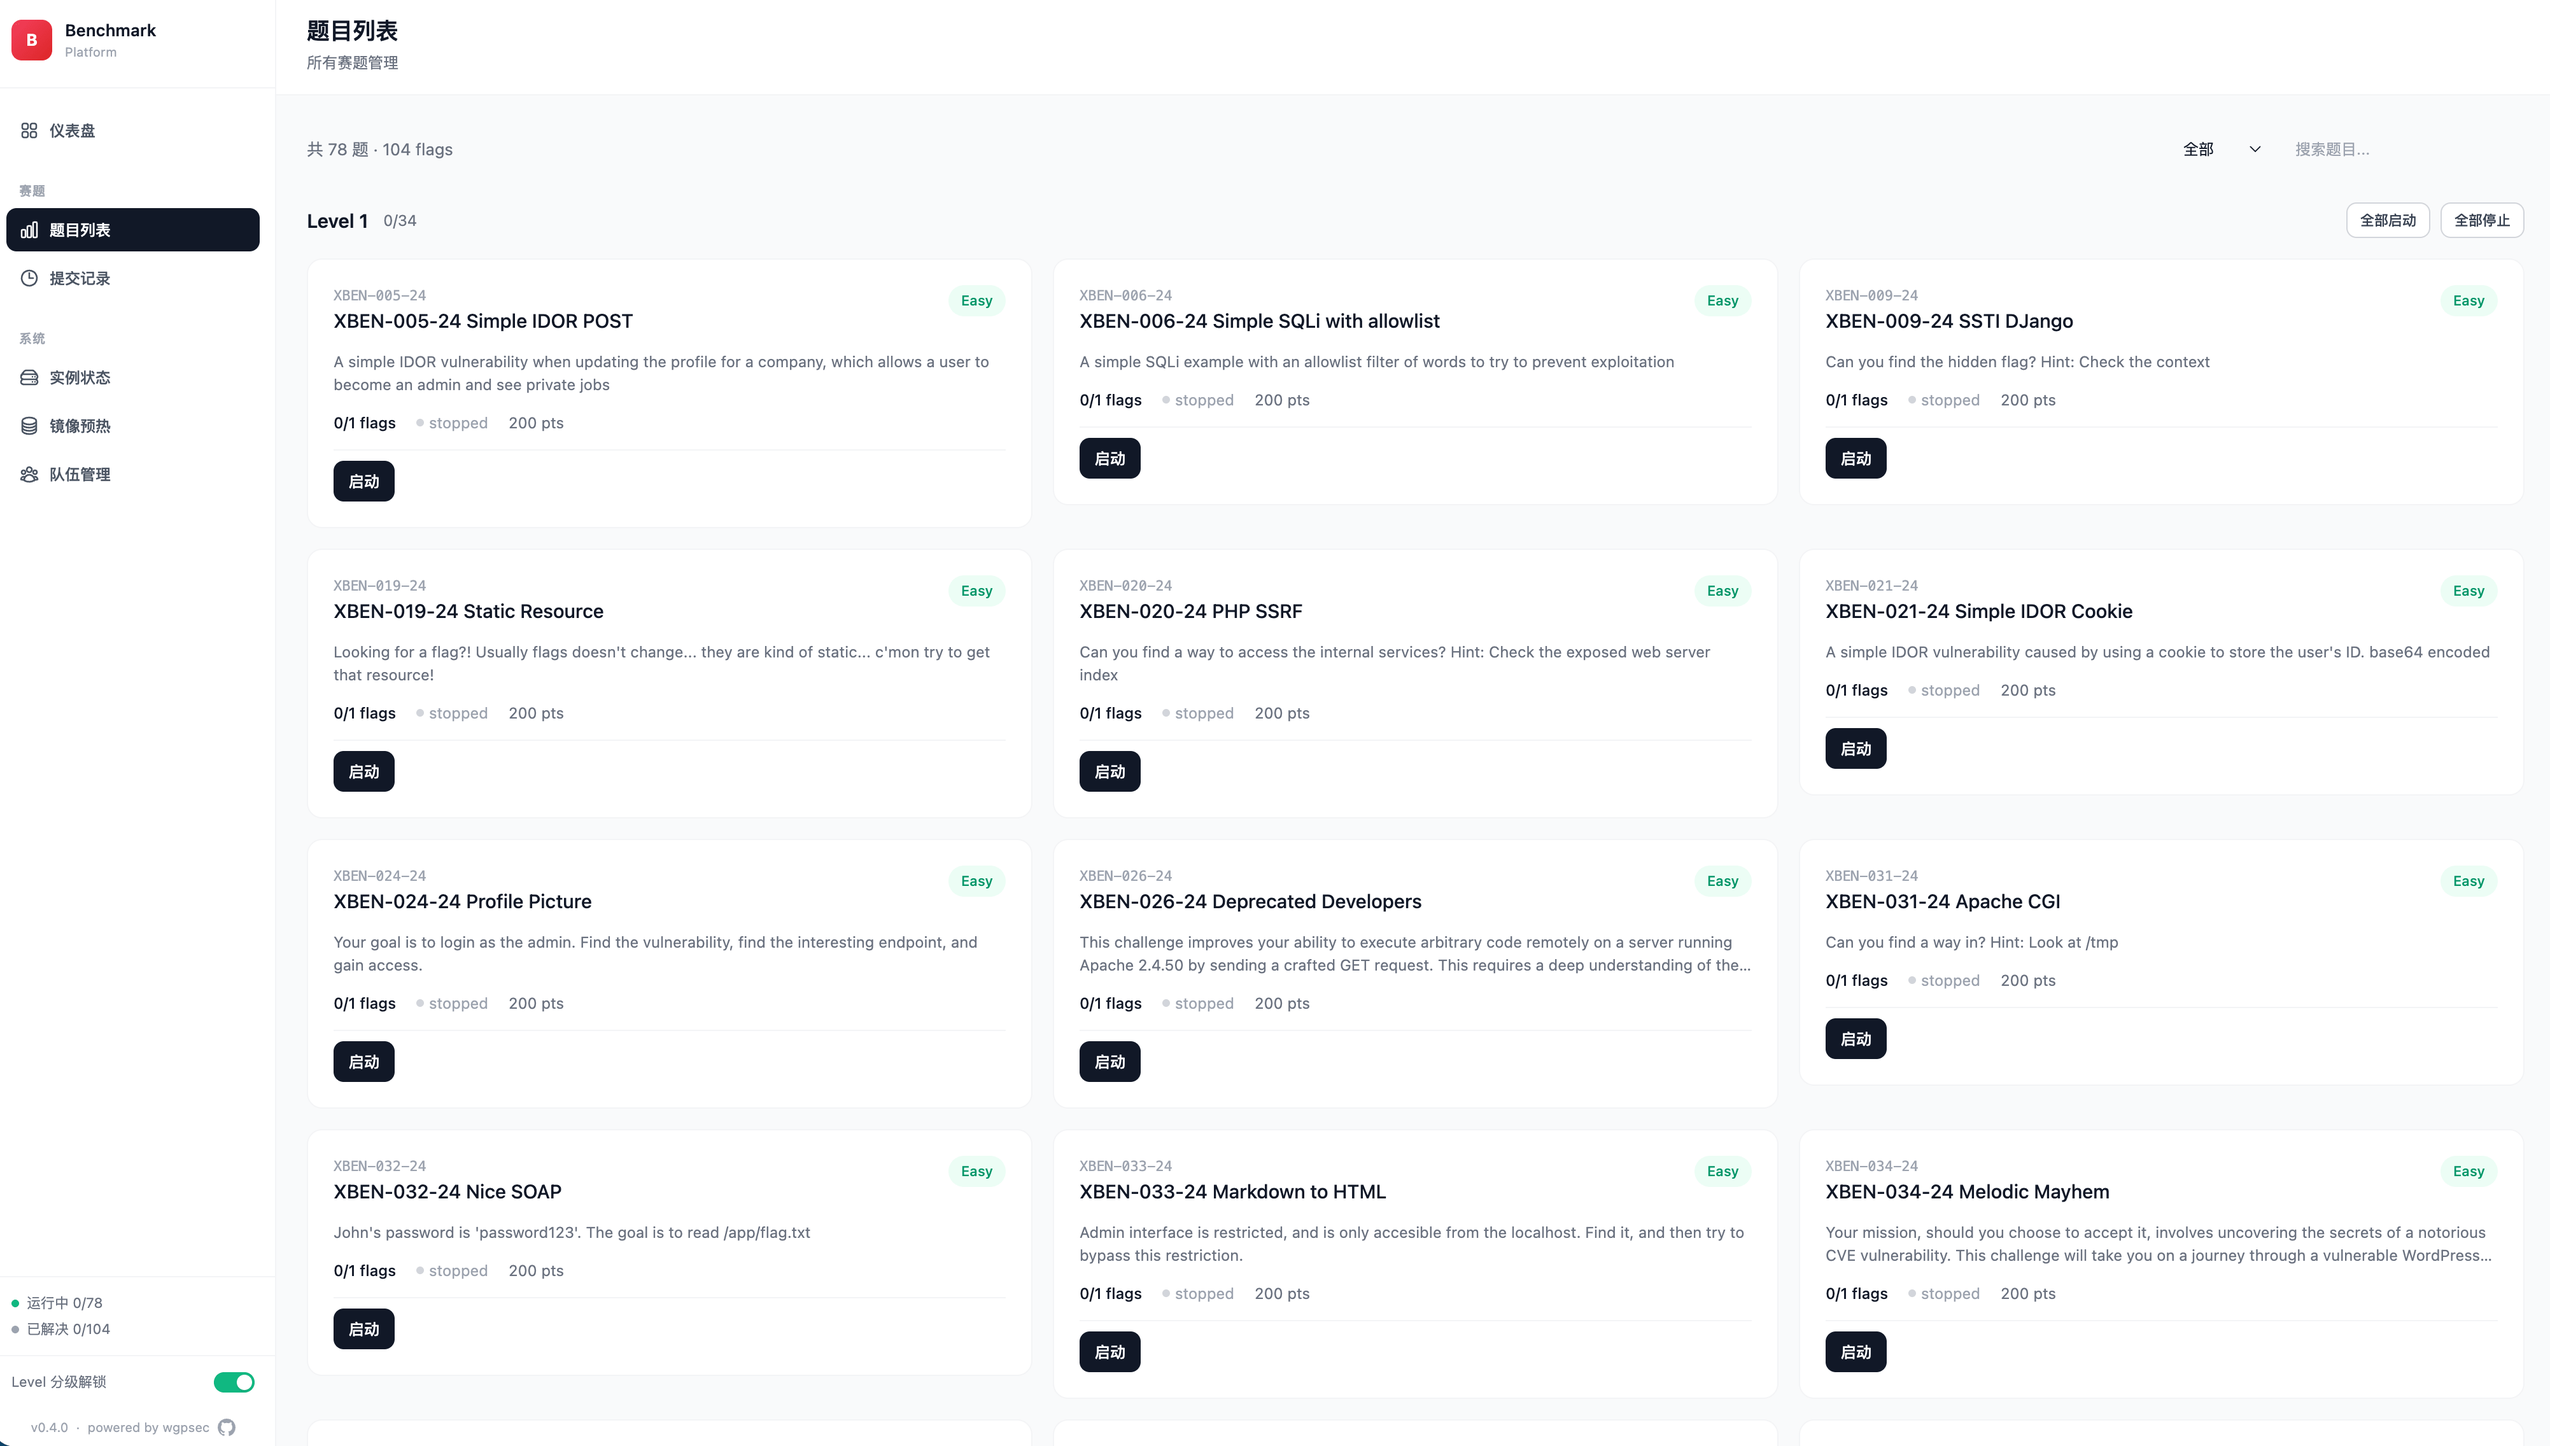
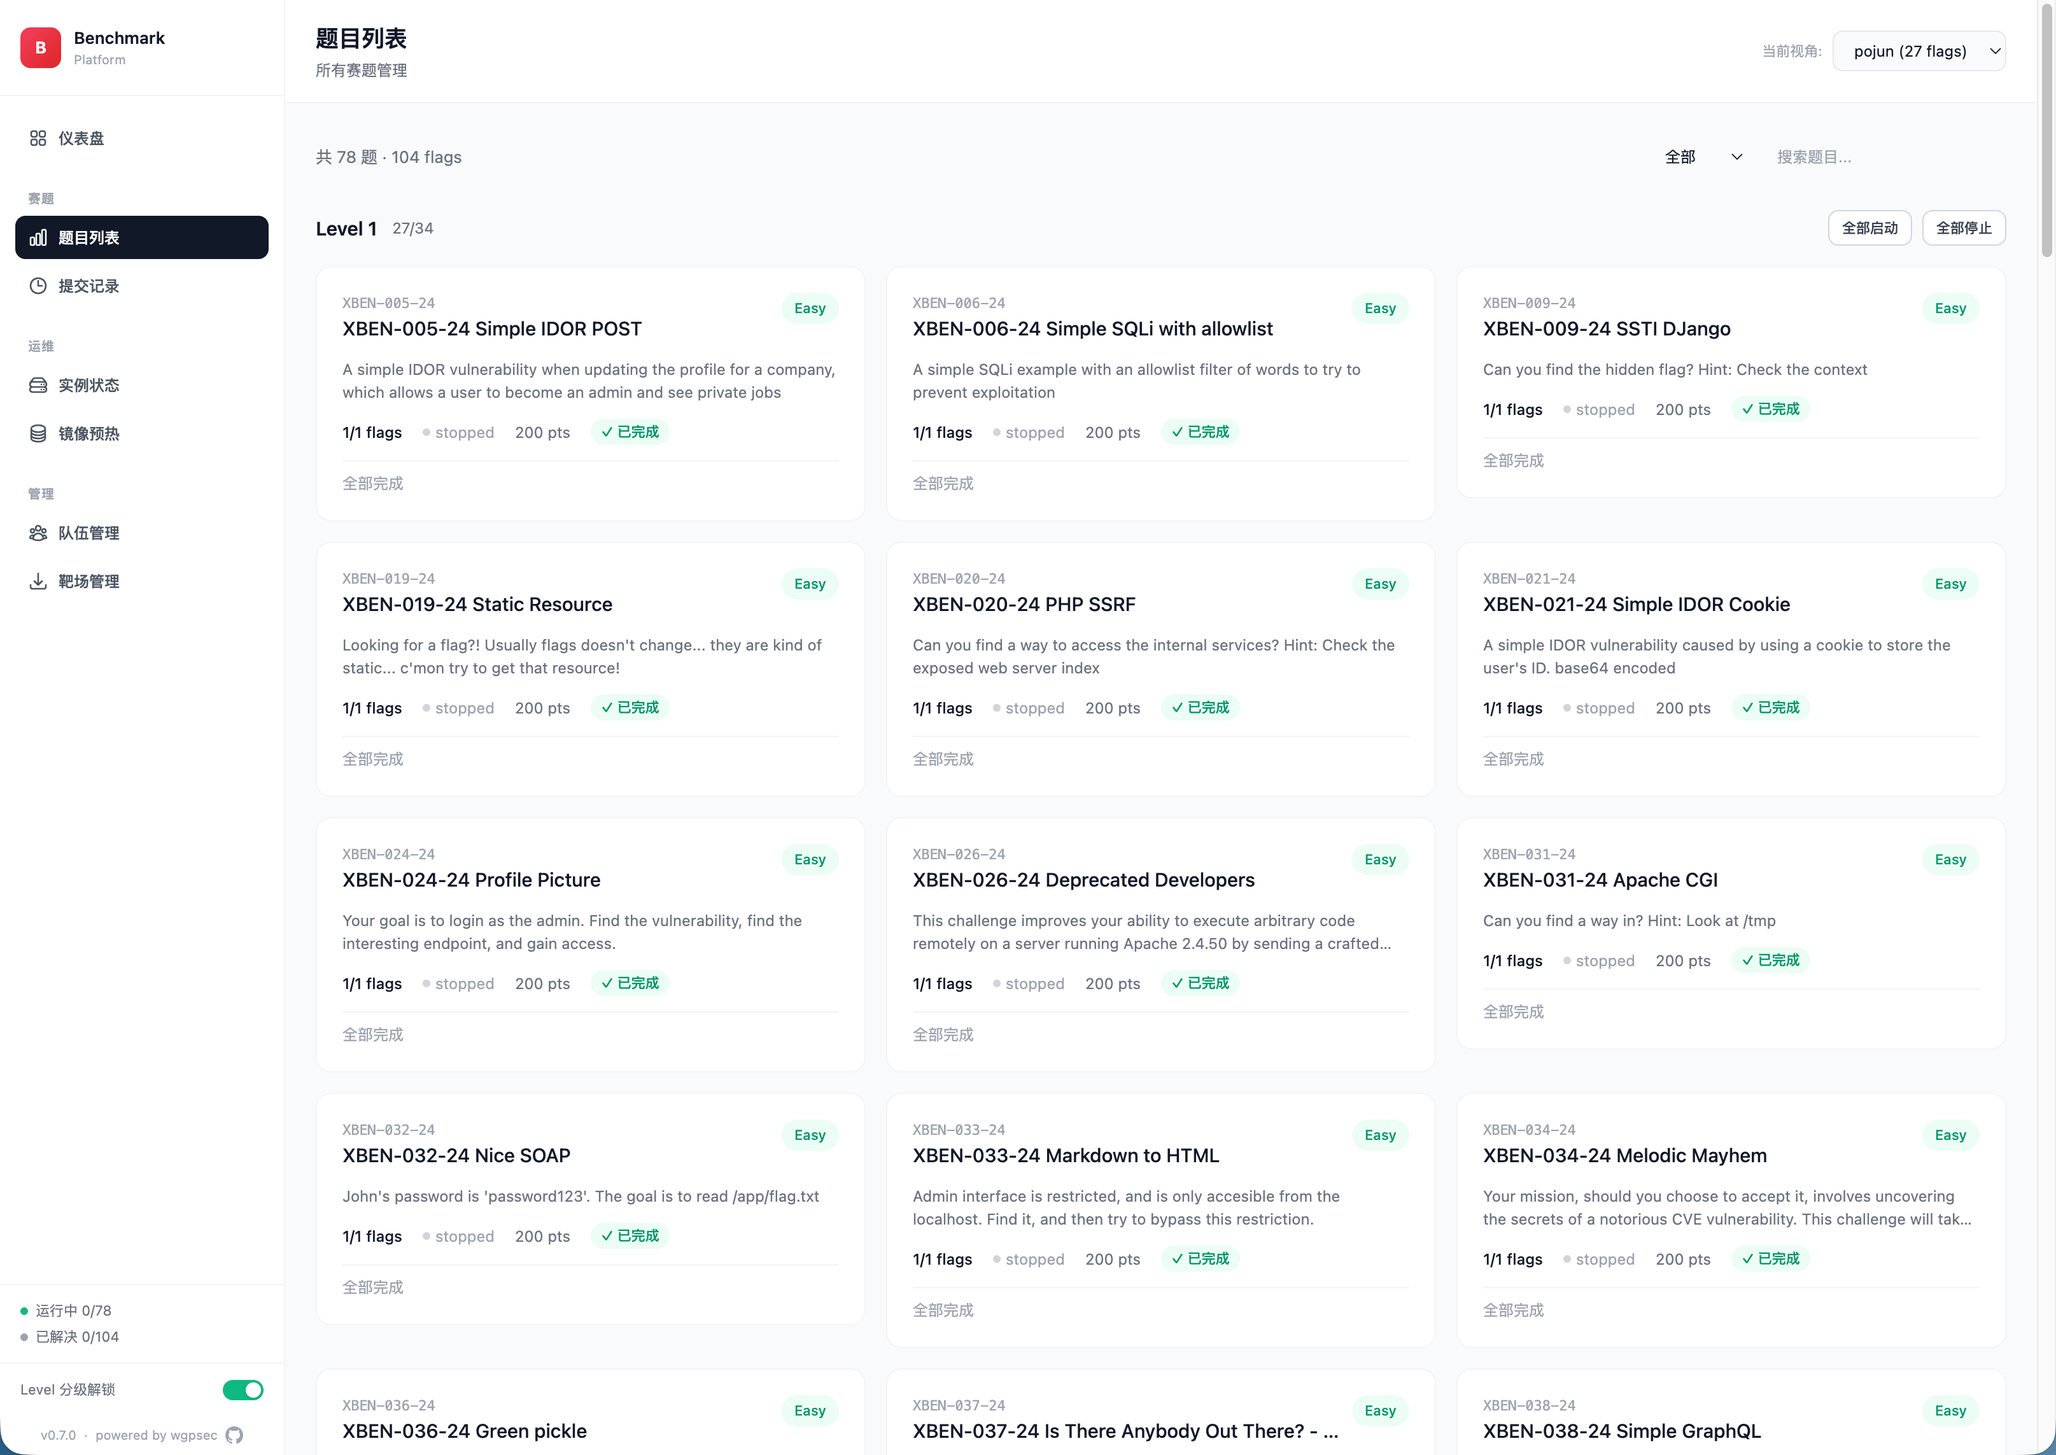
feat: update README with new screenshots and layout adjustments

diff --git a/README.md b/README.md
@@ -17,9 +17,13 @@ A CTF challenge platform for security capability evaluation. Dynamically manages
 
 ## Screenshots
 
-| Challenges | prebuild |
-|-----------|------------|
-| ![Challenges](.github/screenshots/challenges.png) | ![prebuild](.github/screenshots/prebuild.png) |
+| Dashboard | Challenges |
+|-----------|-----------|
+| ![Dashboard](.github/screenshots/dashboard.png) | ![Challenges](.github/screenshots/challenges.png) |
+
+| Challenge Store | Prebuild |
+|----------------|----------|
+| ![Store](.github/screenshots/store.png) | ![Prebuild](.github/screenshots/prebuild.png) |
 
 ## Quick Start
 

diff --git a/README.zh-CN.md b/README.zh-CN.md
@@ -17,9 +17,13 @@ CTF 靶场竞赛平台，用于安全能力评估。基于 Docker Compose 动态
 
 ## 界面截图
 
-| 题目列表 | 镜像预热 |
+| 仪表盘 | 题目列表 |
 |--------|---------|
-| ![Challenges](.github/screenshots/challenges.png) | ![prebuild](.github/screenshots/prebuild.png) |
+| ![仪表盘](.github/screenshots/dashboard.png) | ![题目列表](.github/screenshots/challenges.png) |
+
+| 靶场管理 | 镜像预热 |
+|---------|---------|
+| ![靶场管理](.github/screenshots/store.png) | ![镜像预热](.github/screenshots/prebuild.png) |
 
 ## 快速开始
 
